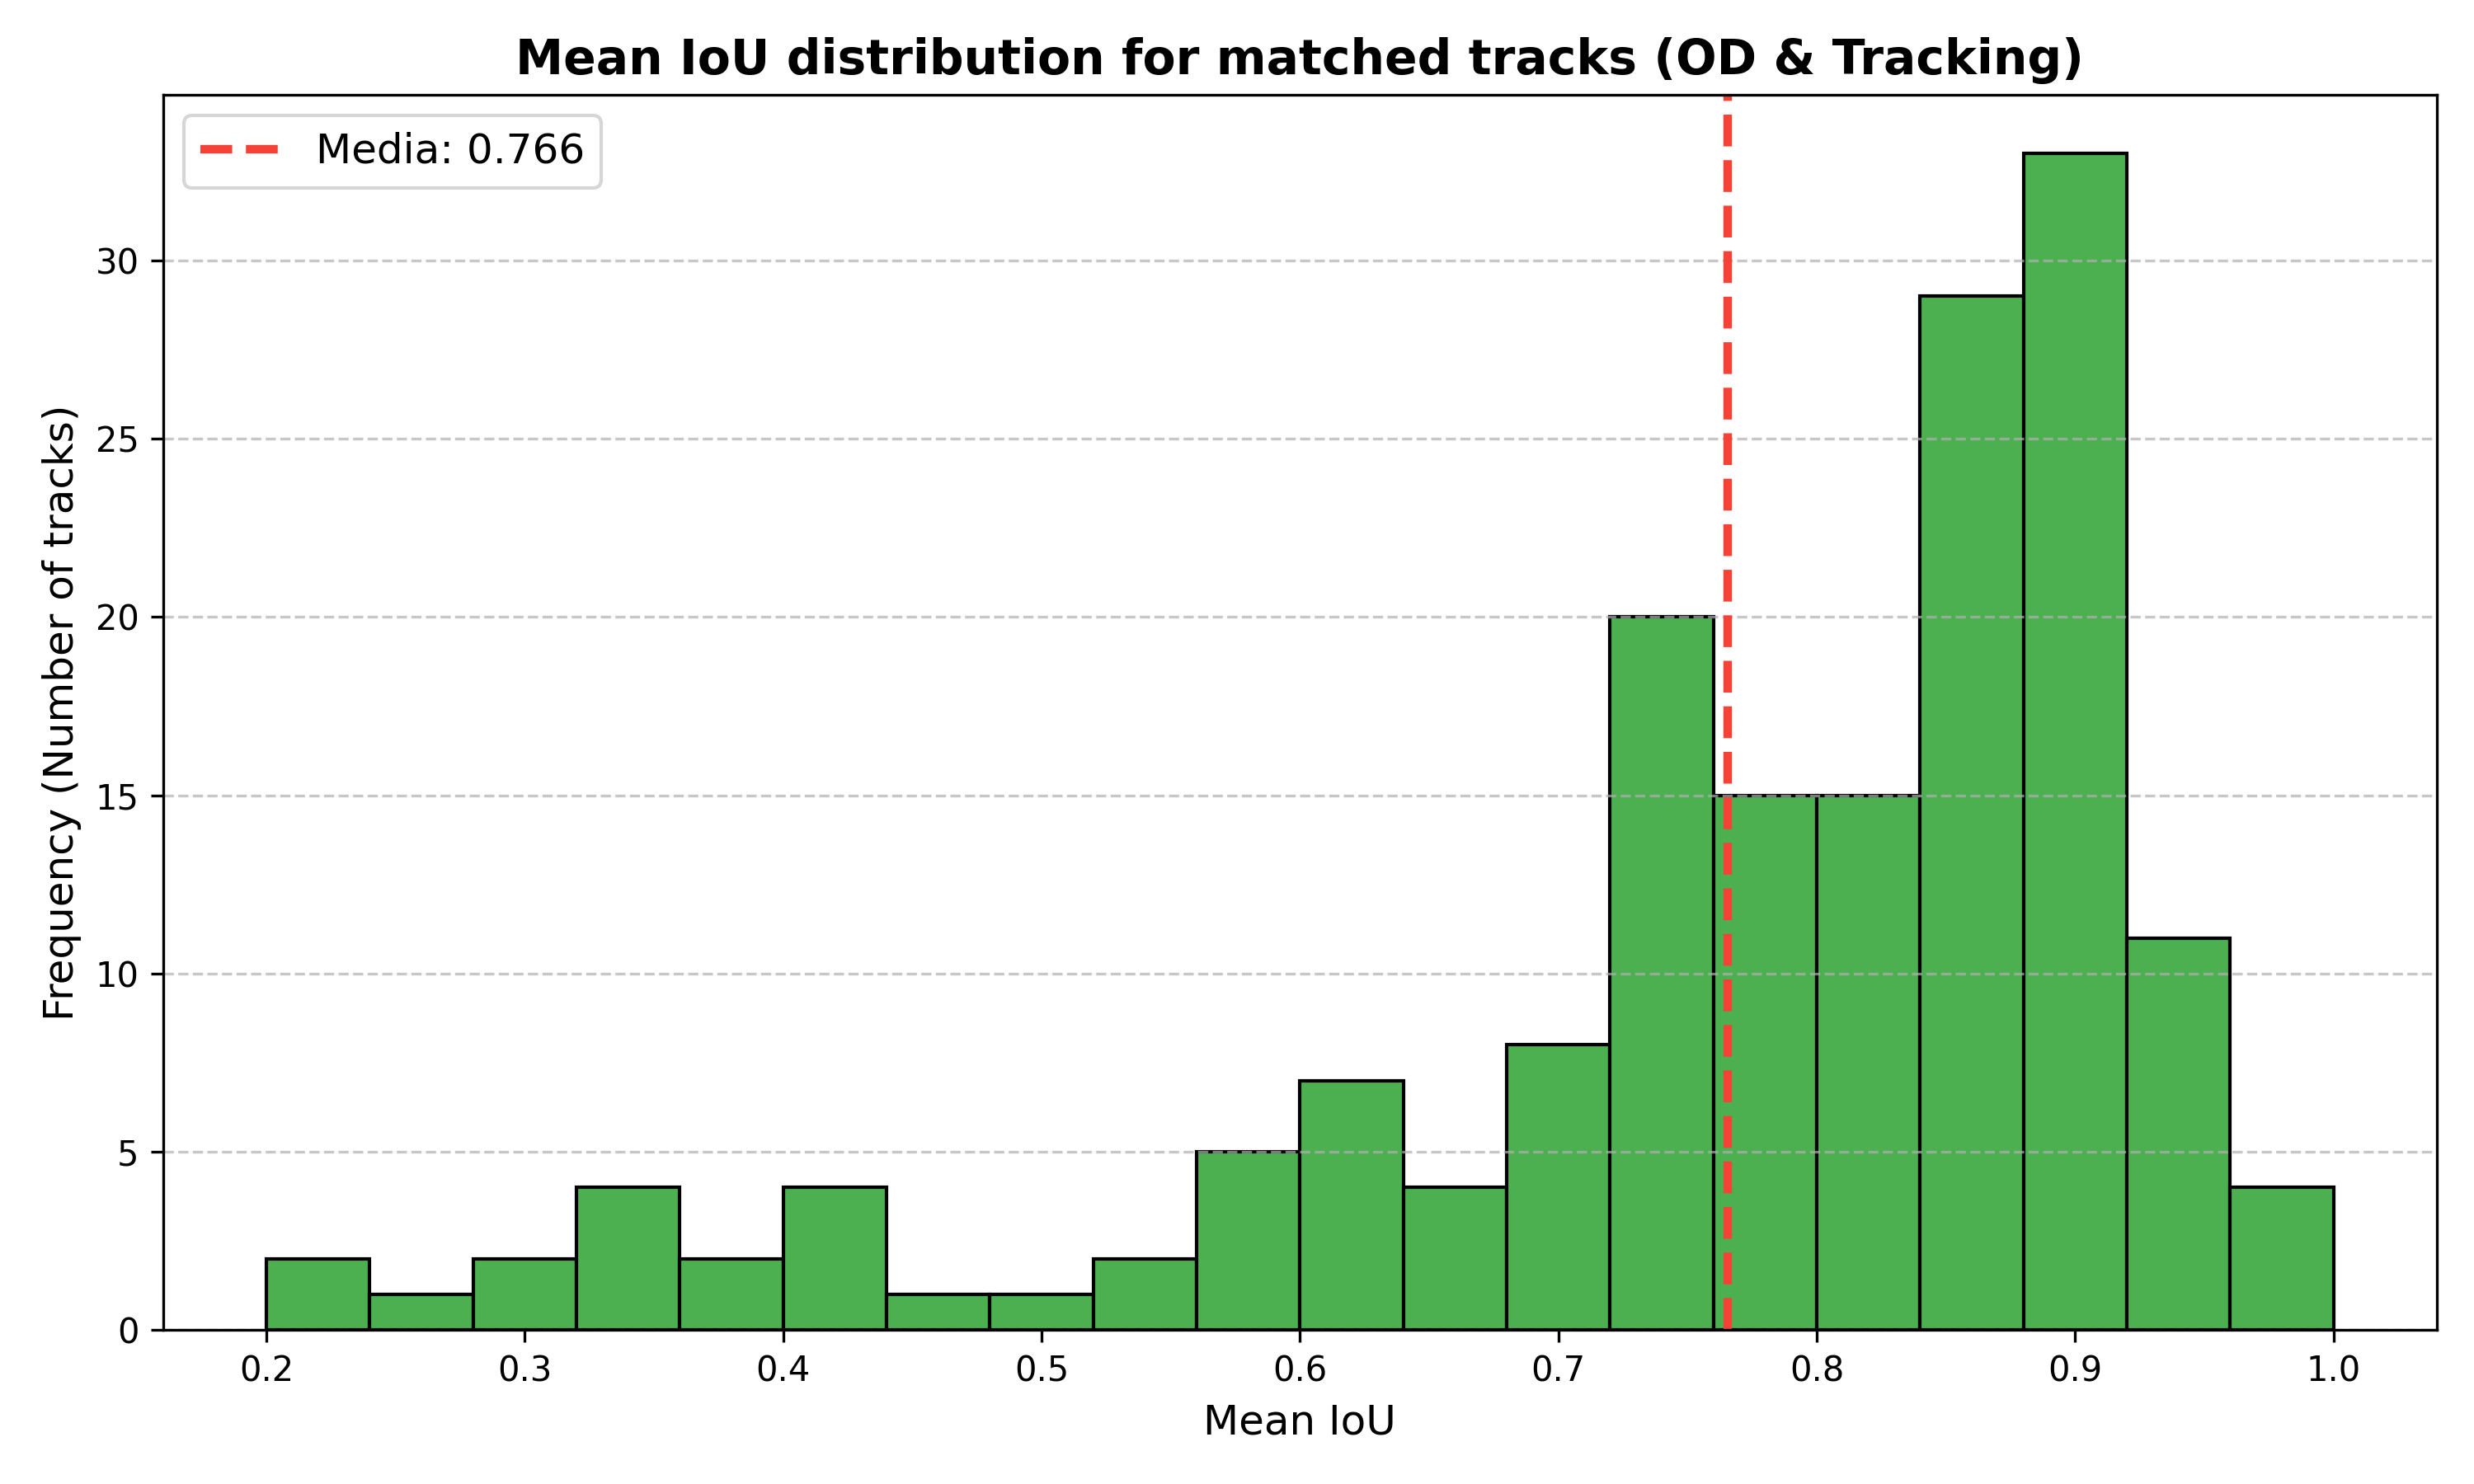
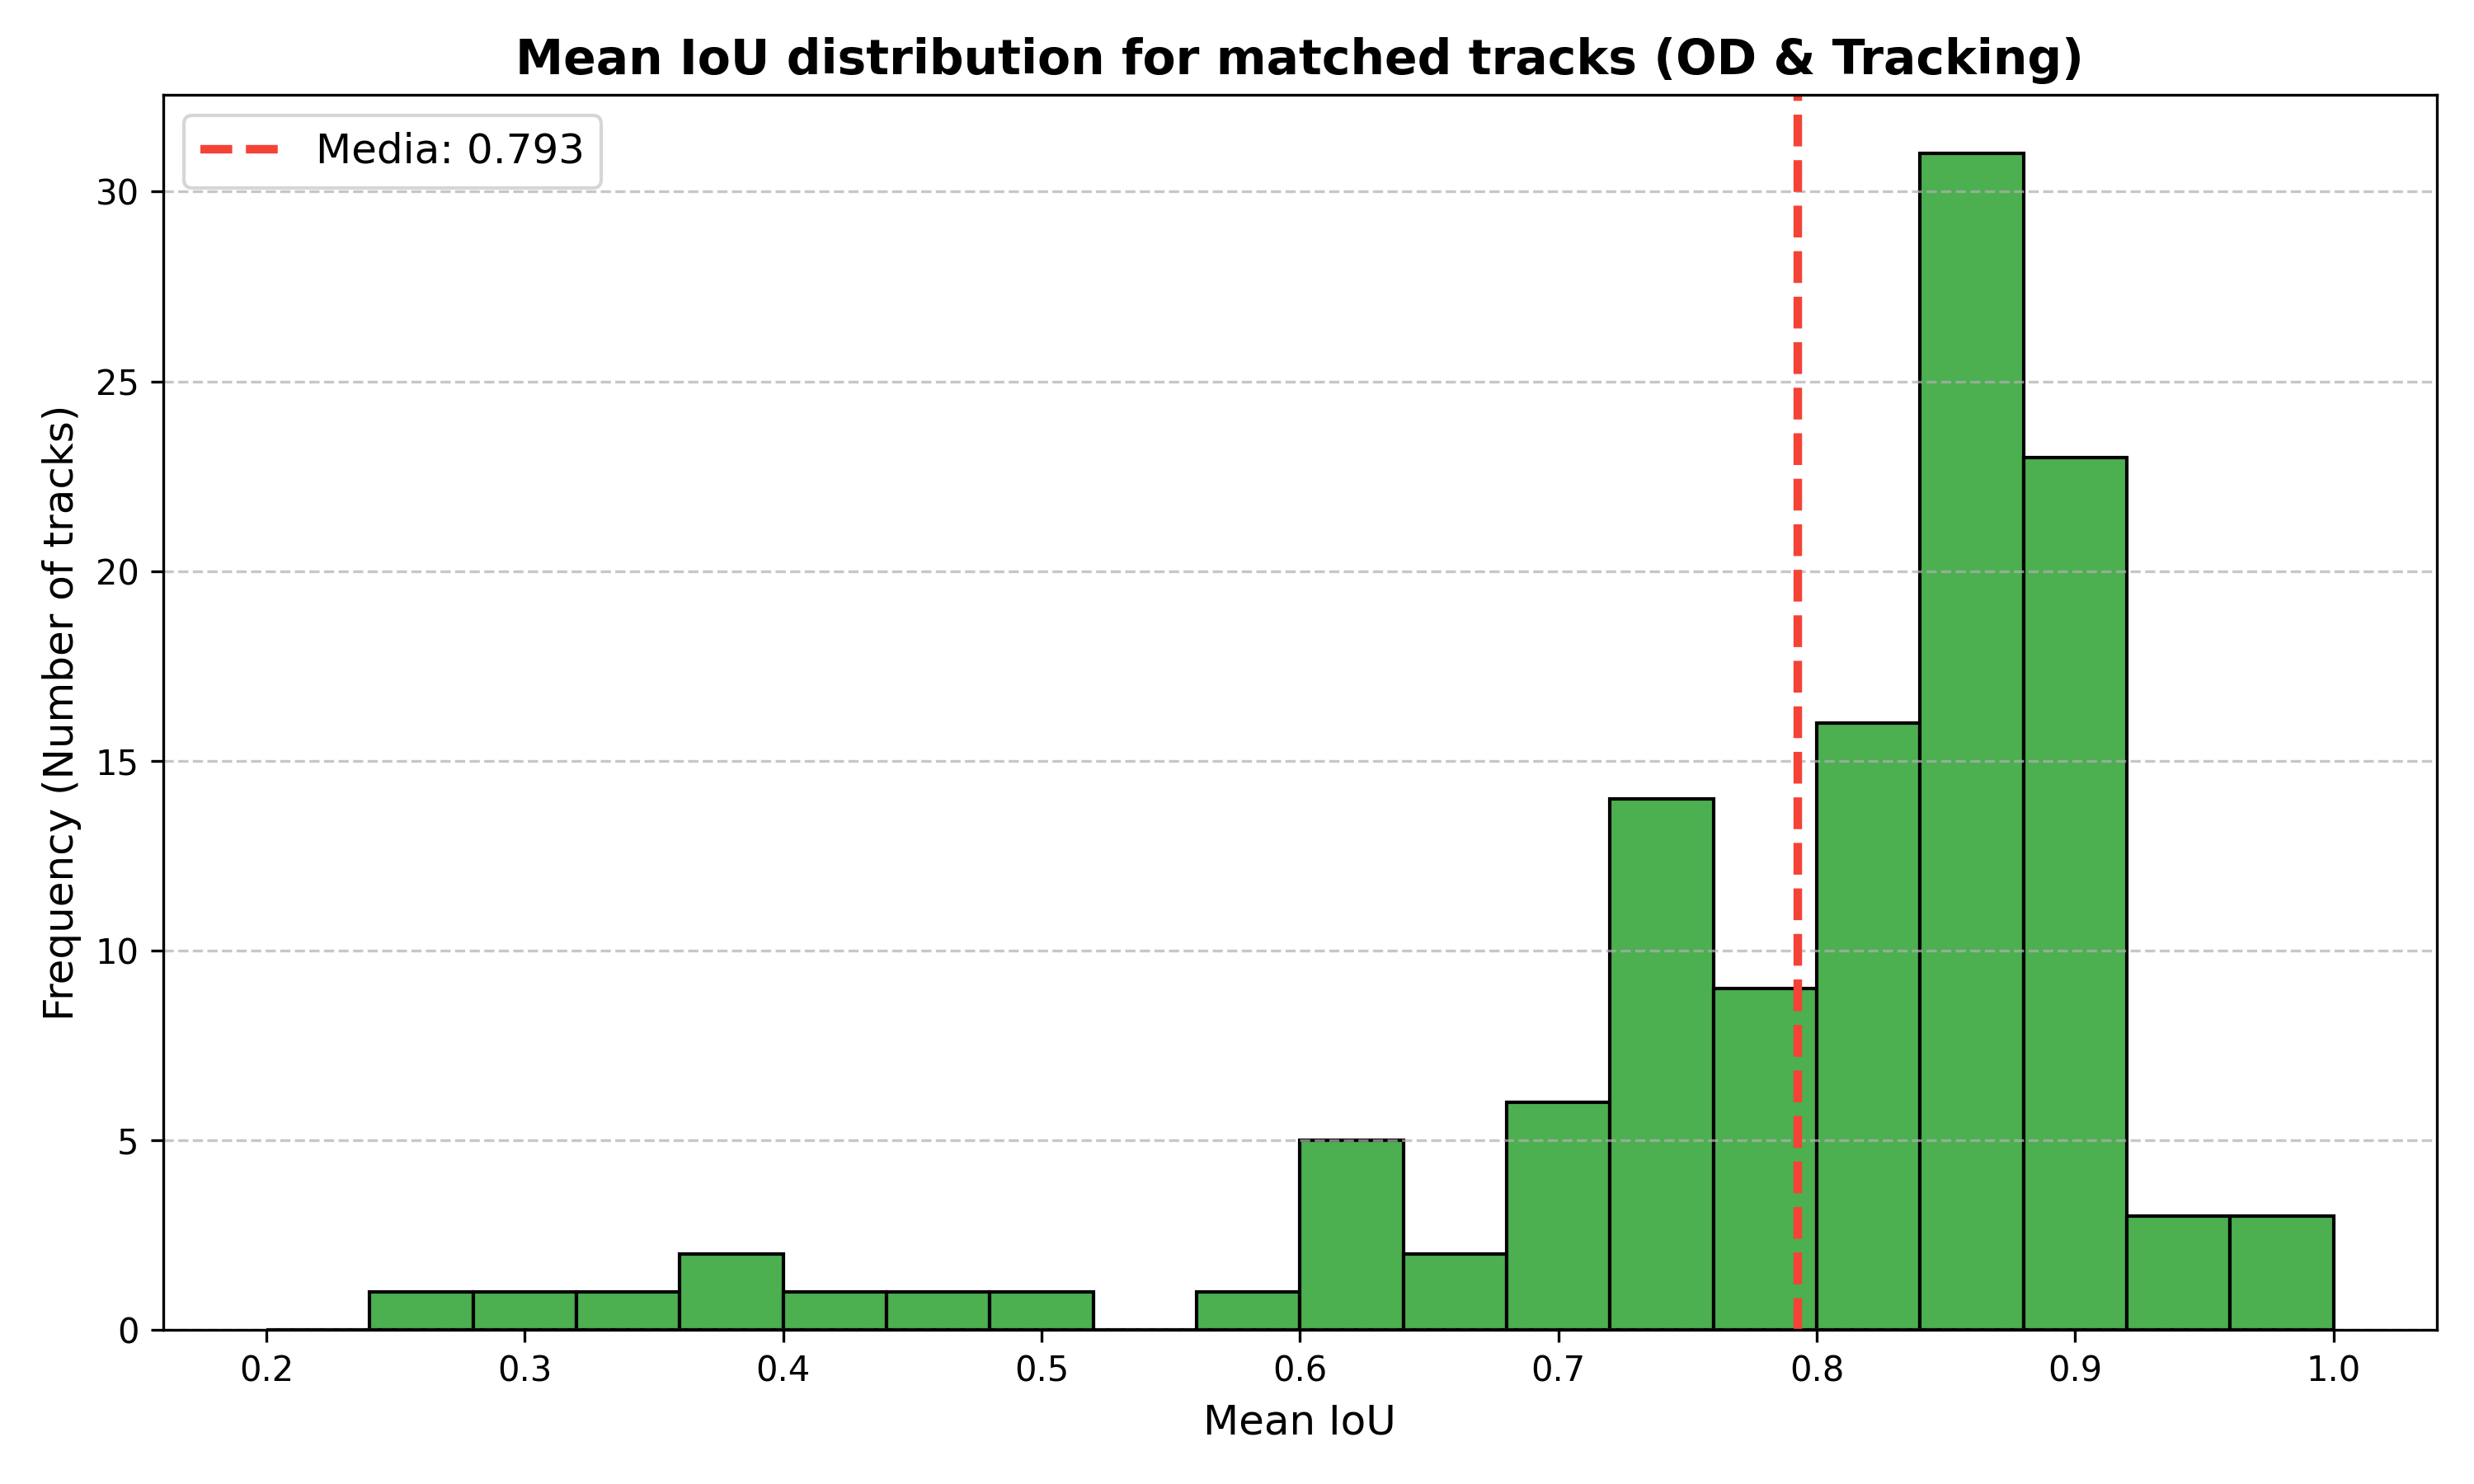
modified action rec

diff --git a/evaluation/VidOR_use_case/VidOR_od_and_ar.py b/evaluation/VidOR_use_case/VidOR_od_and_ar.py
@@ -7,9 +7,9 @@ from scenedetect import detect, ContentDetector
 import matplotlib.pyplot as plt
 
 # --- CONFIGURAZIONE PATH ---
-PATH_OD = "/home/ludovico/workspace/AA-STAL/data_pipeline/DATA_ROOT/video_general_obj_det_partial-owl"
-PATH_ACTION = "/home/ludovico/workspace/AA-STAL/data_pipeline/DATA_ROOT/action_recognition_finished-example"
-PATH_VIDEOS = "/home/ludovico/workspace/AA-STAL/data_pipeline/DATA_ROOT/Videos" # Ricerca ricorsiva abilitata
+PATH_OD = "/home/ludovico/workspace/AA-STAL/data_pipeline/DATA_ROOT/video_general_obj_det_partial-dino"
+PATH_ACTION = "/home/ludovico/workspace/AA-STAL/data_pipeline/DATA_ROOT/act_rec_fin"
+PATH_VIDEOS = "/home/ludovico/workspace/AA-STAL/data_pipeline/DATA_ROOT/Videos"
 PATH_FRAMES = "/home/ludovico/workspace/AA-STAL/data_pipeline/DATA_ROOT/Videos_crop_decode"
 PATH_GT = "/home/ludovico/workspace/AA-STAL/data_pipeline/DATA_ROOT/groundtruth/VidOR"
 